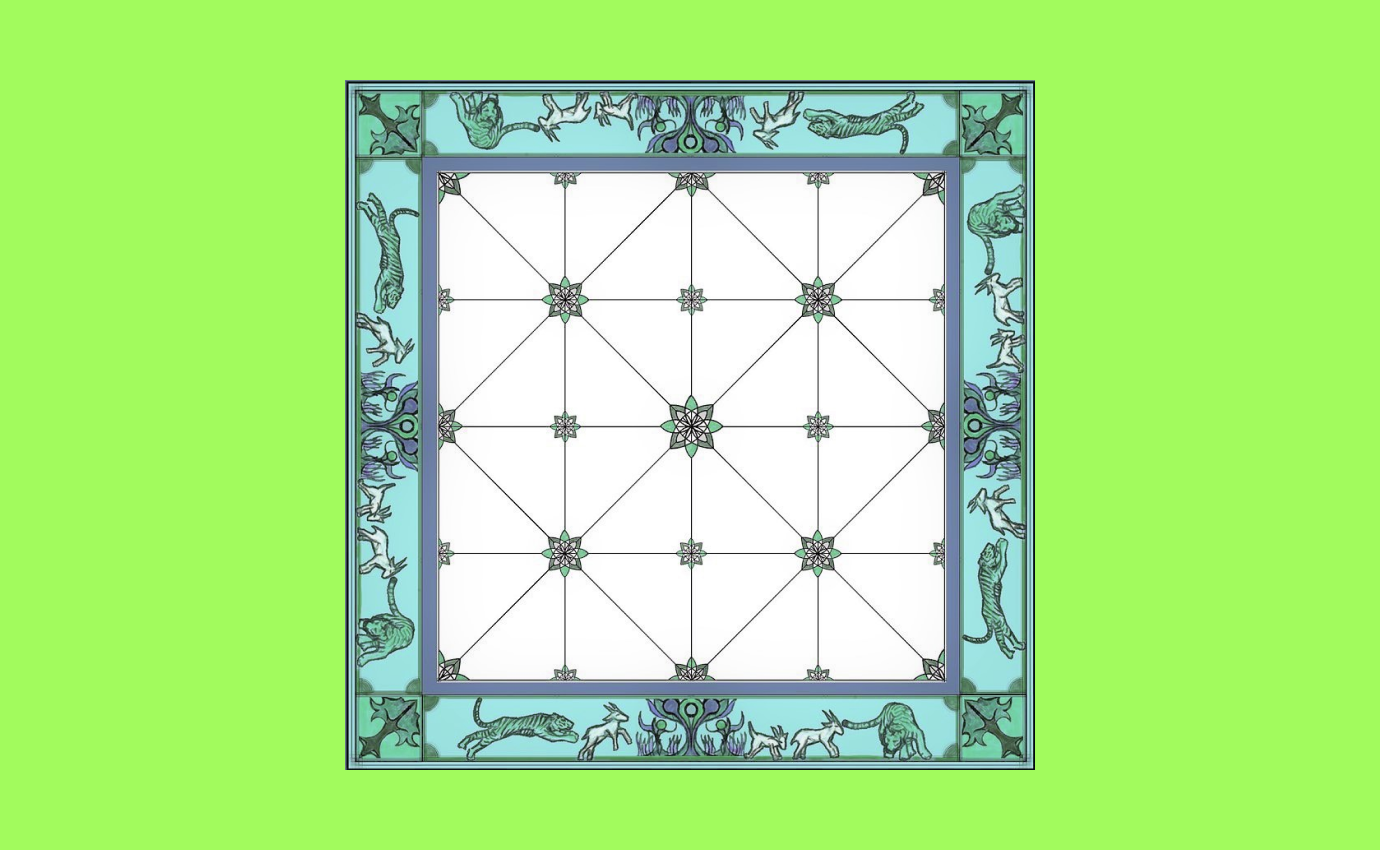
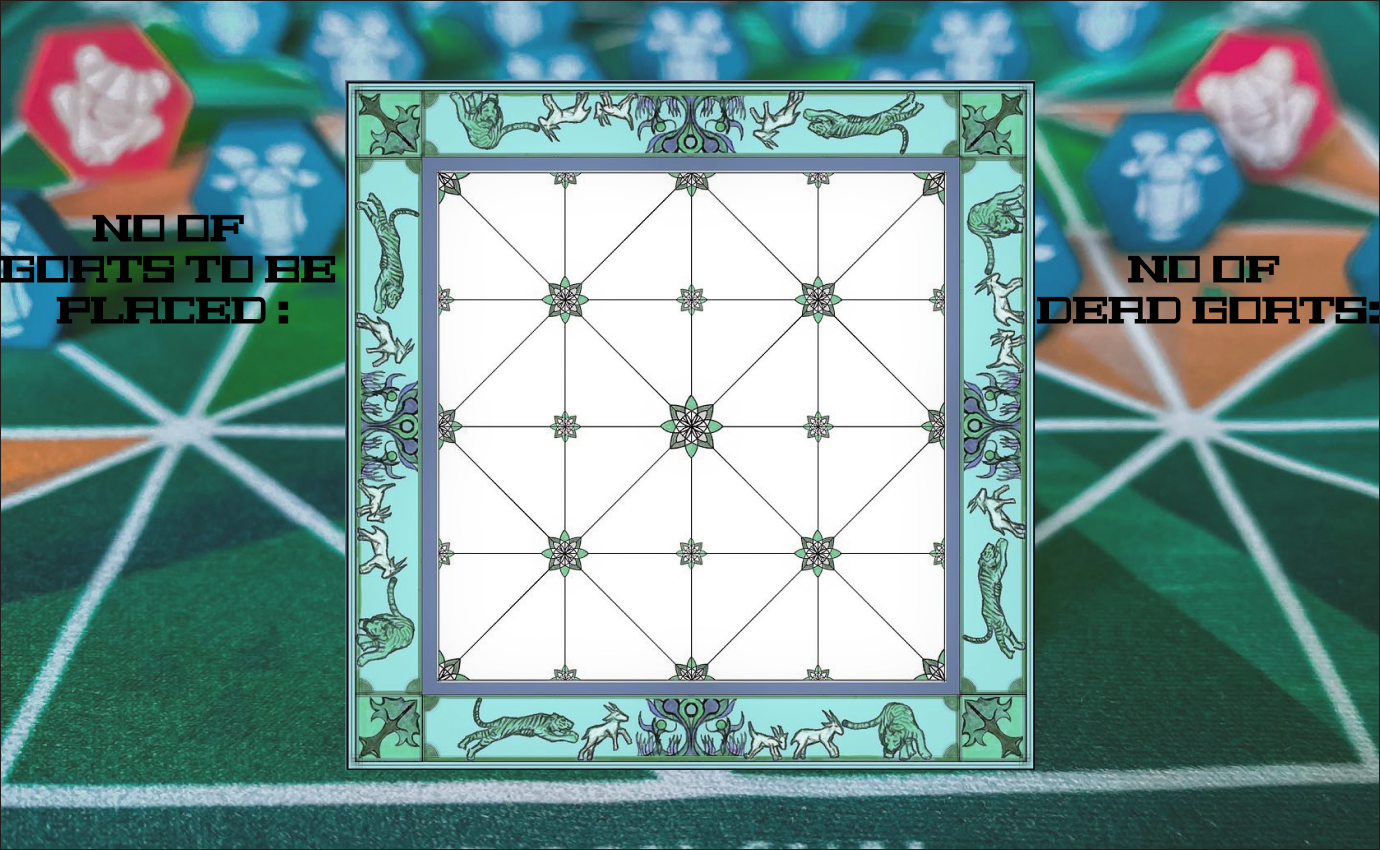
Final commit before presentation

diff --git a/Codes/LoadBoard.cpp b/Codes/LoadBoard.cpp
@@ -28,12 +28,12 @@ Board::Board() //Constructor
     tigerText.setStyle(sf::Text::Bold);
     tigerText.setString("TIGER'S TURN");
     goatText.setString("GOAT'S TURN");
-    tigerText.setCharacterSize(26);
-    goatText.setCharacterSize(26);
+    tigerText.setCharacterSize(40);
+    goatText.setCharacterSize(40);
     tigerText.setFillColor(sf::Color::Red);
     goatText.setFillColor(sf::Color::Red);
-    tigerText.setPosition(40,150);
-    goatText.setPosition(40,150);
+    tigerText.setPosition(500,30);
+    goatText.setPosition(500,30);
     goatWinText.setPosition(1000,400);
     isReleased=false;
     isMove=false;
@@ -45,8 +45,8 @@ Board::Board() //Constructor
     oldPos=sf::Vector2i (75,30);
     goatsAtt[0].setCharacterSize(50);
     goatsAtt[1].setCharacterSize(50);
-    goatsAtt[0].setPosition(1240,335);
-    goatsAtt[1].setPosition(1220,435);
+    goatsAtt[0].setPosition(1200,335);
+    goatsAtt[1].setPosition(100,335);
     goatsAtt[0].setFont(font);
     goatsAtt[1].setFont(font);
     normalMoveBuffer.loadFromFile("Audio/dot.wav");
@@ -83,10 +83,10 @@ void Board::render(sf::RenderWindow &mWindow,Goat *goat,const bool *tigerFlag,bo
 {
     goatsAtt[1].setString(std::to_string(goatsInHand));
     goatsAtt[0].setString(std::to_string(goatsEaten));
-    if(goatsInHand>9 and goatsInHand<20 and goatsInHand!=11)
-        goatsAtt[1].setPosition(10,435);
-    else if(goatsInHand<10 or goatsInHand==11)
-        goatsAtt[1].setPosition(10,435);
+//    if(goatsInHand>9 and goatsInHand<20 and goatsInHand!=11)
+//        goatsAtt[1].setPosition(40,335);
+//    else if(goatsInHand<10 or goatsInHand==11)
+//        goatsAtt[1].setPosition(30,335);
     mWindow.clear(Color::White);
     mWindow.draw(boardImage);//renders the board image
     mWindow.draw(goatsAtt[0]);
